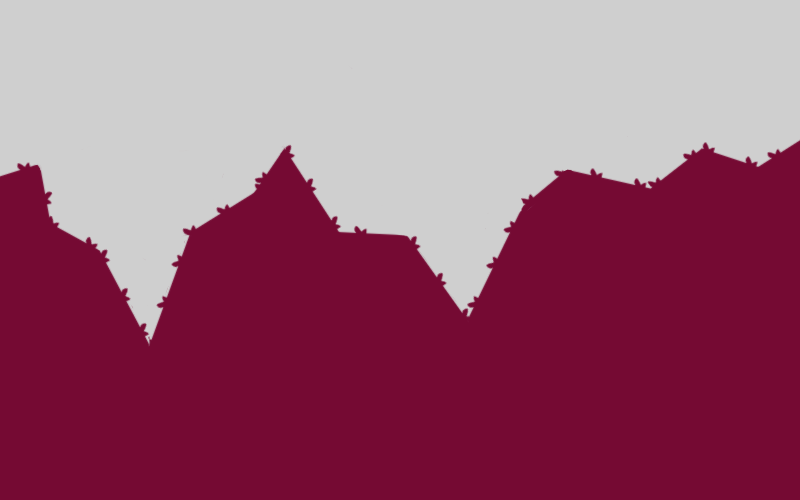
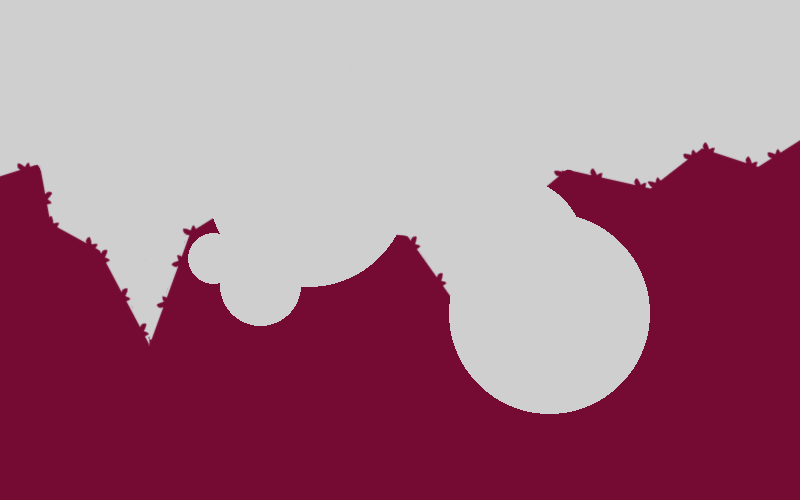
Arreglo radios de explosion
se arreglaron los radios

Changed region(s): [[0.5625, 0.36, 0.8125, 0.84], [0.2188, 0.3, 0.5, 0.66]]

diff --git a/Juego - PP/Mapa.py b/Juego - PP/Mapa.py
@@ -41,16 +41,13 @@ class Mapa():
         c = 0
         if(seleccion_mapa == 1):
             if opcion_proyectil == 0:
-                a = 20
-
-            if opcion_proyectil == 1:
-                a = 50
-
-            if opcion_proyectil == 2:
+                a = 25
+            if opcion_proyectil == 1: #daño 50
                 a = 100
-
-            if opcion_proyectil == 3:
-                a = 150  
+            if opcion_proyectil == 2: #daño 40
+                a = 70  
+            if opcion_proyectil == 3: #daño 30
+                a = 40
             
             if(cont == 1):
                 with Image.open("imagenes/800x500/m1.png") as im:
@@ -65,16 +62,13 @@ class Mapa():
 
         if(seleccion_mapa == 2):
             if opcion_proyectil == 0:
-                b = 20
-
-            if opcion_proyectil == 1:
-                b = 50
-
-            if opcion_proyectil == 2:
+                b = 25
+            if opcion_proyectil == 1: #daño 50
                 b = 100
-
-            if opcion_proyectil == 3:
-                b = 150  
+            if opcion_proyectil == 2: #daño 40
+                b = 70  
+            if opcion_proyectil == 3: #daño 30
+                b = 40
 
             if(cont == 1):
                 with Image.open("imagenes/800x500/m2.png") as im:
@@ -89,16 +83,13 @@ class Mapa():
 
         if(seleccion_mapa == 3):
             if opcion_proyectil == 0:
-                c = 20
-
-            if opcion_proyectil == 1:
-                c = 50       
-
-            if opcion_proyectil == 2:
+                c = 25
+            if opcion_proyectil == 1: #daño 50
                 c = 100
-
-            if opcion_proyectil == 3:
-                c = 150 
+            if opcion_proyectil == 2: #daño 40
+                c = 70  
+            if opcion_proyectil == 3: #daño 30
+                c = 40 
 
             if(cont == 1):
                 with Image.open("imagenes/800x500/m3.png") as im:

diff --git a/Juego - PP/Mapa_2.py b/Juego - PP/Mapa_2.py
@@ -63,13 +63,13 @@ class Mapa():
         
         if(seleccion_mapa == 2):
             if opcion_proyectil == 0:
-                a = 25
+                b = 25
             if opcion_proyectil == 1: #daño 50
-                a = 100
+                b = 100
             if opcion_proyectil == 2: #daño 40
-                a = 70  
+                b = 70  
             if opcion_proyectil == 3: #daño 30
-                a = 40
+                b = 40
                                   
             if(cont == 1):
                 with Image.open("imagenes/1600x900/16m2.png") as im:
@@ -84,13 +84,13 @@ class Mapa():
 
         if(seleccion_mapa == 3):
             if opcion_proyectil == 0:
-                a = 25
+                c = 25
             if opcion_proyectil == 1: #daño 50
-                a = 100
+                c = 100
             if opcion_proyectil == 2: #daño 40
-                a = 70  
+                c = 70  
             if opcion_proyectil == 3: #daño 30
-                a = 40 
+                c = 40 
 
             if(cont == 1):
                 with Image.open("imagenes/1600x900/16m3.png") as im:
